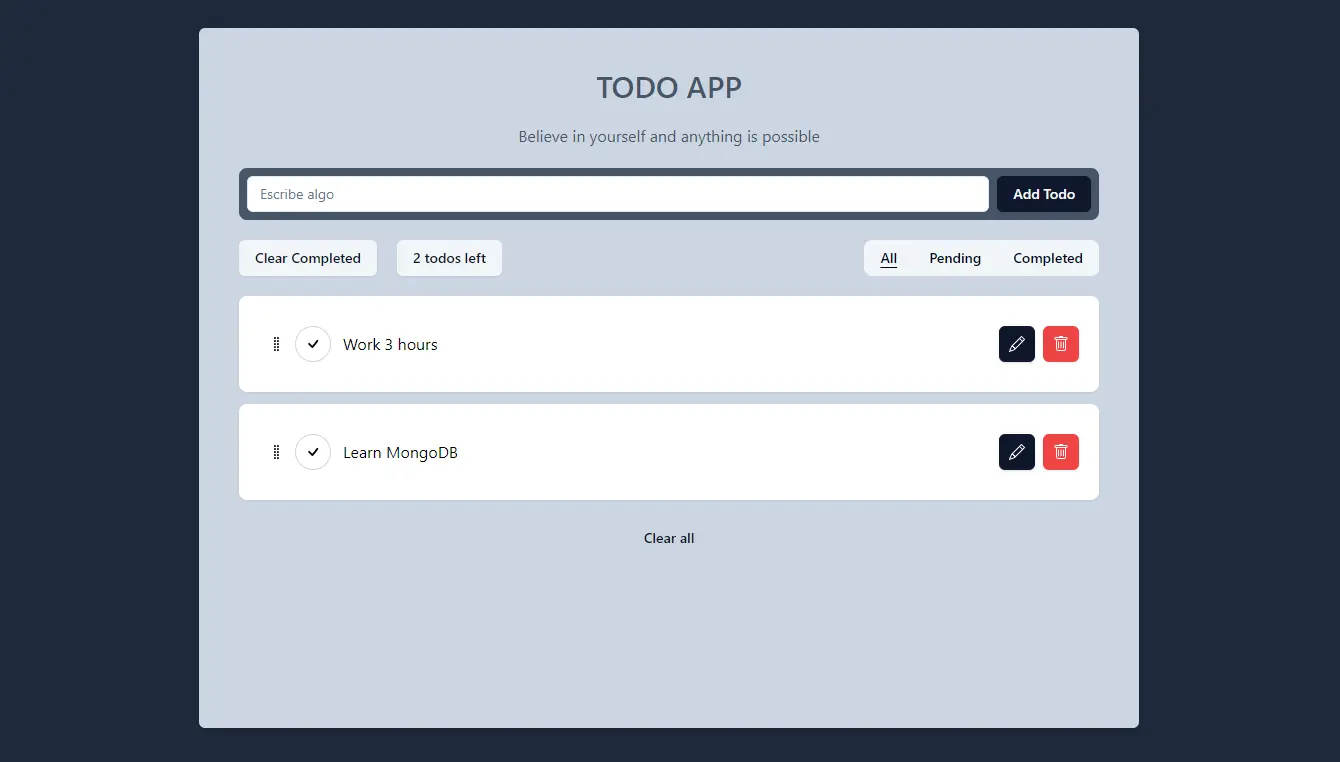
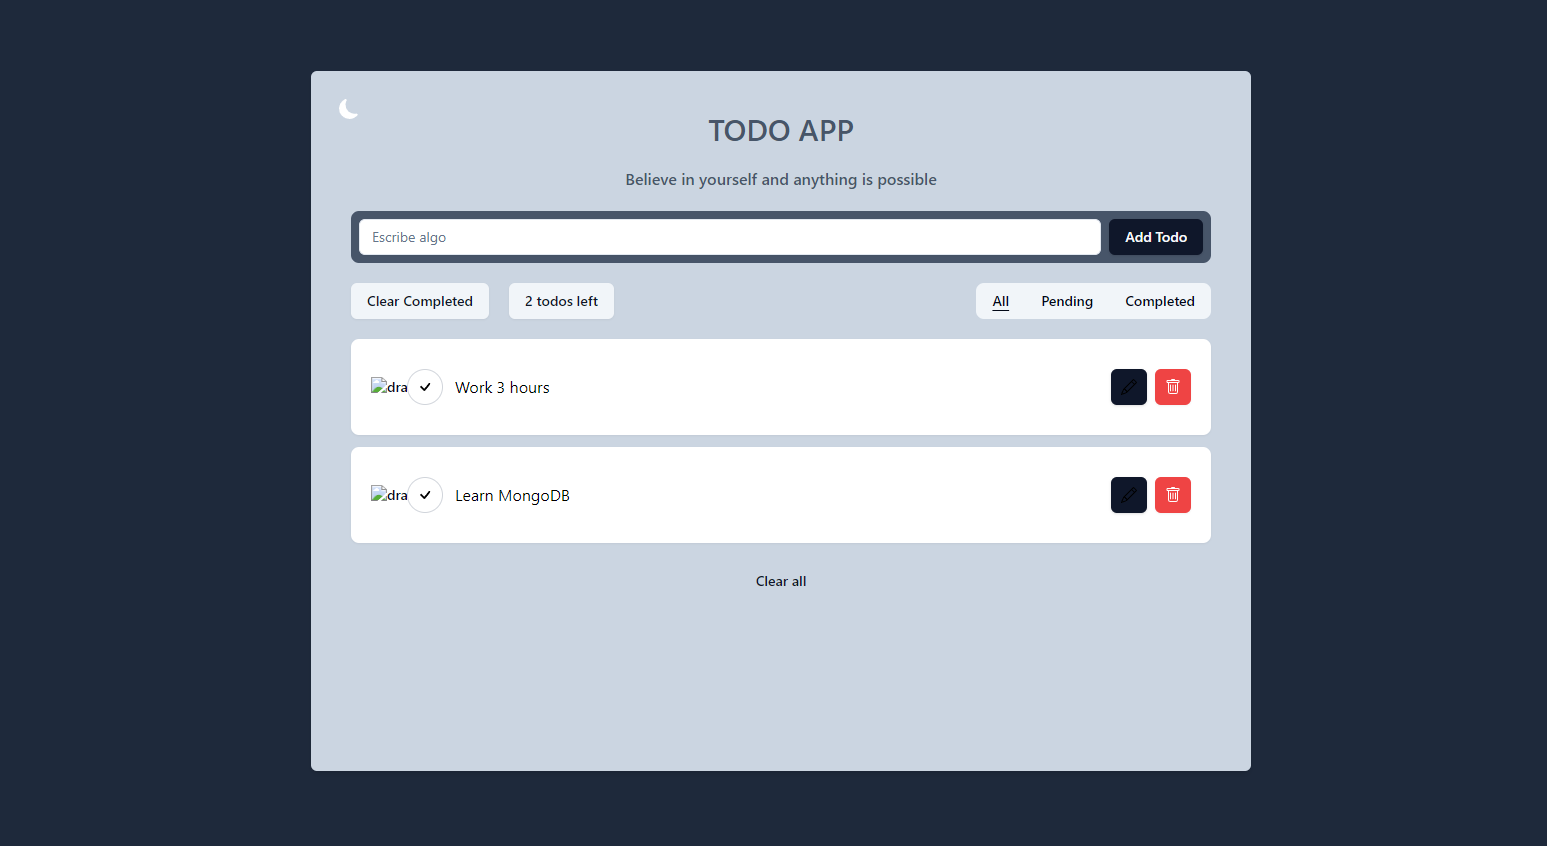
link todo app

Changed region(s): [[0.1224, 0.0302, 0.8567, 0.9659]]

diff --git a/data.ts b/data.ts
@@ -45,7 +45,10 @@ export const projects = [
     title: 'Todo App + Drag and Drop',
     description:
       'Todo app with drag and drop functionality made with Vite, React, Tailwind and dndKit',
-    images: ['/projects/todo/todo-app-1.webp'],
-    href: 'https://todo-6p5ll2mvz-nacho3l3s-projects.vercel.app/'
+    images: [
+      '/projects/todo/todo-app-1.webp',
+      '/projects/todo/todo-app-2.webp'
+    ],
+    href: 'https://todo-app-taupe-zeta.vercel.app/'
   }
 ]
